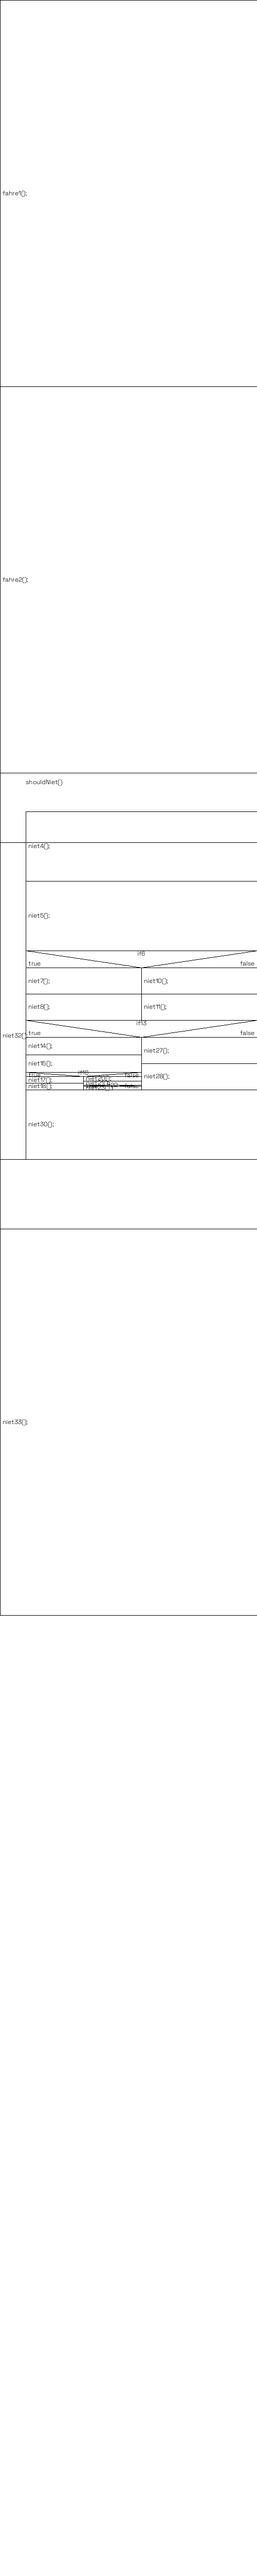
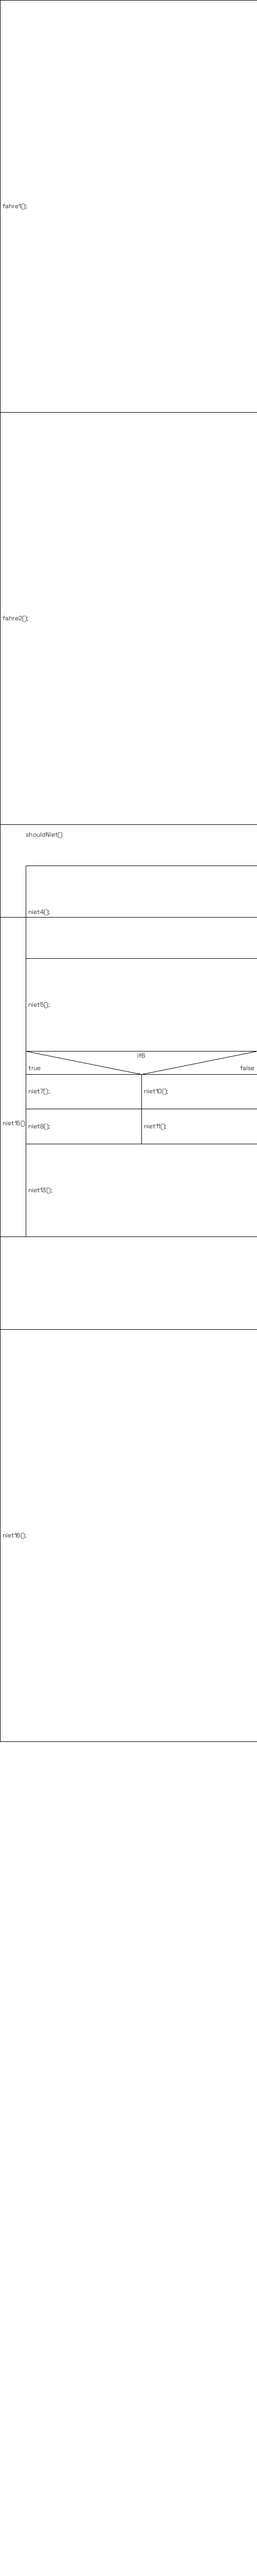
.

Changed region(s): [[0.48, 0.3744, 0.66, 0.4368], [0.12, 0.3744, 0.21, 0.4368], [0.33, 0.4056, 0.45, 0.4368]]

diff --git a/NassiShneidermann.py b/NassiShneidermann.py
@@ -1,7 +1,9 @@
-from Iinstruction import Iinstruction
-import interpret_source as itp
-import logging
 from typing import List
+from Iinstruction import Iinstruction
+import logging
+import interpret_source as itp
+import code_to_image as cti
+
 
 class NassiShneidermanDiagram:
 
@@ -26,7 +28,7 @@ class NassiShneidermanDiagram:
         cti.NSD_init(x_size, 5000)
         x, y, x_sz = 0, 0, x_size
         for _k, instruction in self.instructions.items():
-            x, y = instruction.to_image(x, y, x_sz, 750)
+            x, y = instruction.to_image(x, y, x_sz, 800)
         cti.NSD_save(filename)
 
     def load_from_file(self, filepath:str):
@@ -41,9 +43,6 @@ class NassiShneidermanDiagram:
 
     
 if __name__ == "__main__":
-    #for debugging
-    from Iinstruction import *
-
     NSD = NassiShneidermanDiagram(True)
 
     NSD.load_from_file("res/input/input.java")

diff --git a/res/input/input.java b/res/input/input.java
@@ -10,27 +10,10 @@ while(shouldNiet()) {
         niet10();
         niet11();
     }
-    if(if13) {
-        niet14();
-        niet15();
-        if(if16) {
-            niet17();
-            niet18();
-        } else {
-            niet20();
-            niet21();
-            if(if22) {
-                niet23()
-            }
-        }
-    } else {
-        niet27();
-        niet28();
-    }
-    niet30();
+    niet13();
 }
-niet32();
-niet33();
+niet15();
+niet16();
 
 // drehe("links");
 // while(huegelVorhanden("rechts"))
